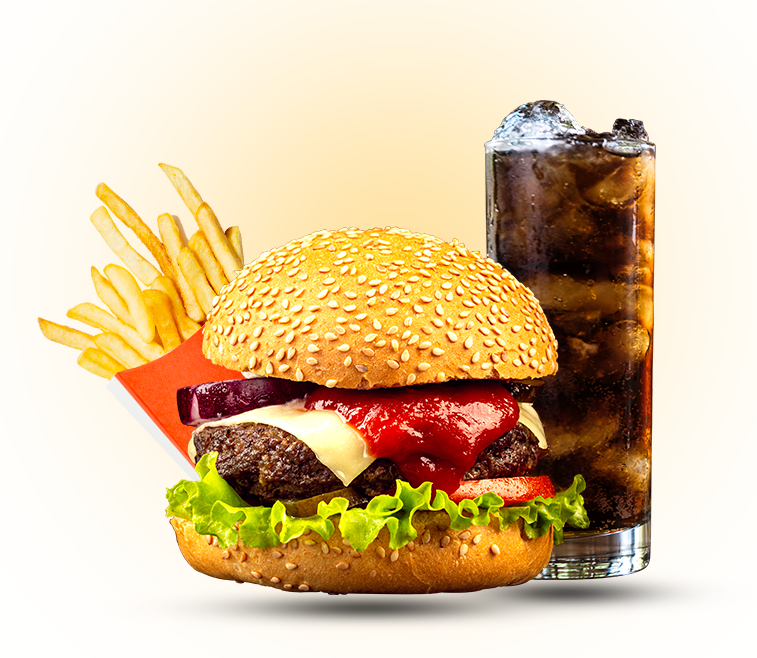
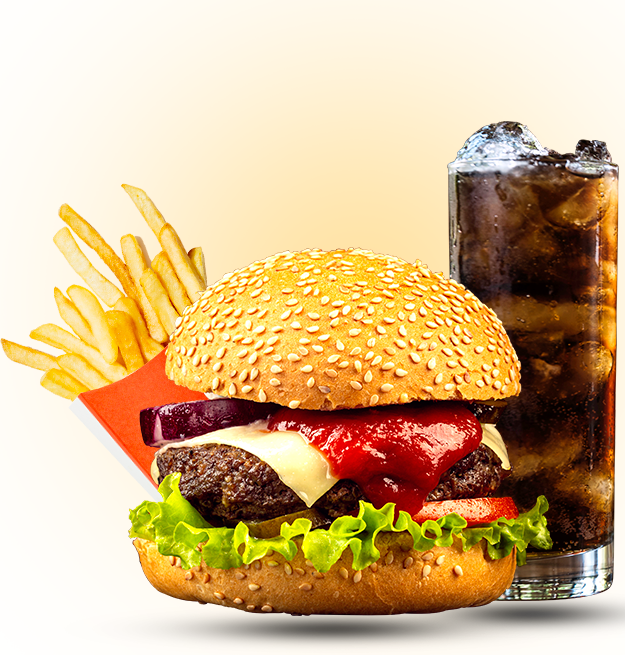
Feature Section done.

diff --git a/css/style.css b/css/style.css
@@ -8,7 +8,7 @@ font-family: 'Inconsolata', monospace;*/
 body{
 	margin: 0;
 	padding: 0;
-	font-family: 'Montserrat', sans-serif;
+	font-family: 'Bebas Neue', cursive;
 	font-size: 16px;
 	font-weight: 400;
 	color: #3d2514;
@@ -47,8 +47,8 @@ header{
 	float: right;
 }
 .d-img{
-	width: 28px;
-    height: 28px;
+	width: 25px;
+    height: 25px;
     display: inline-block;
 }
 .d-img img{
@@ -56,6 +56,7 @@ header{
 }
 .d_text{
 	padding-left: 5px;
+	font-family: 'Montserrat', sans-serif;
 	font-size: 12px;
     font-weight: 600;
 	display: inline-block;
@@ -76,7 +77,6 @@ header{
 }
 .menu ul li a{
 	margin: 0px 25px;
-	font-family: 'Bebas Neue', cursive;
 	float: left;
     text-decoration: none;
     text-transform: uppercase;
@@ -99,33 +99,34 @@ header{
 .header-body{
 	padding: 0 0 80px;
 	float: left;
-	/*border: 1px solid green;*/
 }
 .header-left{
-	width: 47%;
+	margin-right: 35px;
+	width: 48%;
 	float: left;
-	/*border: 1px solid blue;*/
 }
 .header-left p{
-	margin-top: 110px;
+	margin-top: 170px;
 	padding: 8px 15px;
 	width: 380px;
-	font-family: 'Bebas Neue', cursive;
 	font-size: 24px;
 	line-height: 30px;
+	text-transform: uppercase;
 	border: 1px dashed #3d2514;
 }
-.left-img{}
+.left-img{
+	background-color: transparent;
+}
 .left-img img{
 	width: 100%;
 }
 .header-right{
-	width: 47%;
-	float: right;
-	/*border: 1px solid blue;*/
+	width: 48%;
+	float: left;
 }
 .right-img{
 	position: relative;
+	background-color: transparent;
 }
 .right-img img{
 	width: 100%;
@@ -134,7 +135,6 @@ header{
 	position: absolute;
 	width: 175px;
 	height: 175px;
-	font-family: 'Bebas Neue', cursive;
 	left: 0;
 	bottom: 0;
 	background-color: #bf2222;
@@ -142,8 +142,8 @@ header{
 }
 .price2{
 	margin: 4% auto;
-	width: 160px;
-	height: 160px;
+	width: 90%;
+	height: 90%;
 	border: 1px dashed #ffffff;
 	border-radius: 50%;
 }
@@ -153,6 +153,7 @@ header{
     font-size: 30px;
     color: #ffffff;
     text-align: center;
+    text-transform: uppercase;
     letter-spacing: 5px;
 }
 .price span{
@@ -160,3 +161,64 @@ header{
 }
 /*Header Body end*/
 /*Header section end*/
+
+/*Feature Section start*/
+.feature{}
+.feature-content{
+	margin: 0 auto;
+	padding: 70px 0;
+	width: 95%;
+	overflow: hidden;
+	/*border: 1px solid blue;*/
+}
+.f_left{
+	margin-right: 46px;
+	width: 48%;
+	float: left;
+}
+.f_left_content{
+	background-image: url(../images/feature-left.jpg);
+	background-size: cover;
+	background-position: center;
+	background-repeat: no-repeat;
+	min-height: 420px;
+	border-radius: 10px;
+}
+.f_para{
+	margin: 0;
+	padding: 30px 30px 0;
+	font-size: 24px;
+	text-transform: uppercase;
+	color: #ffffff;
+}
+.f_para1{
+	margin: 0;
+	padding: 0 30px 0;
+	font-size: 42px;
+	text-transform: uppercase;
+	color: #ffffff;
+	line-height: 33px;
+}
+.para2{
+	padding: 0 30px 0;
+	font-size: 36px;
+}
+.f_right{
+	width: 48%;
+	float: left;
+}
+.f_right_img{
+	background-size: cover;
+	background-position: center;
+	background-repeat: no-repeat;
+	min-height: 190px;
+	border-radius: 10px;
+}
+.f_right_content1{
+	background-image: url(../images/feature-right1.jpg);	
+}
+.f_right_content2{
+	margin-top: 40px;
+	background-image: url(../images/feature-right2.jpg);
+}
+/*Feature Section end*/

diff --git a/index.html b/index.html
@@ -71,5 +71,33 @@
 					<!-- Header Body end -->
 				</div>
 			</header>
+
+			<!-- Feature Section start -->
+			<section class="feature">
+				<div class="container">
+					<div class="feature-content">
+						<!-- Left Content -->
+						<div class="f_left">
+							<div class="f_left_content">
+								<p class="f_para">Try it today</p>
+								<p class="f_para1">Most popular burger</p>
+							</div>
+						</div>
+						<!-- Right Content -->
+						<div class="f_right">
+							<div class="f_right_img f_right_content1">
+								<p class="f_para">Try it today</p>
+								<p class="f_para1 para2">More fun</p>
+								<p class="f_para1 para2">More taste</p>
+							</div>
+							<div class="f_right_img f_right_content2">
+								<p class="f_para">Try it today</p>
+								<p class="f_para1">Fresh & chill</p>
+							</div>
+						</div>
+					</div>
+				</div>
+			</section>
+			<!-- Feature Section end -->
 		</body>
 	</html>
